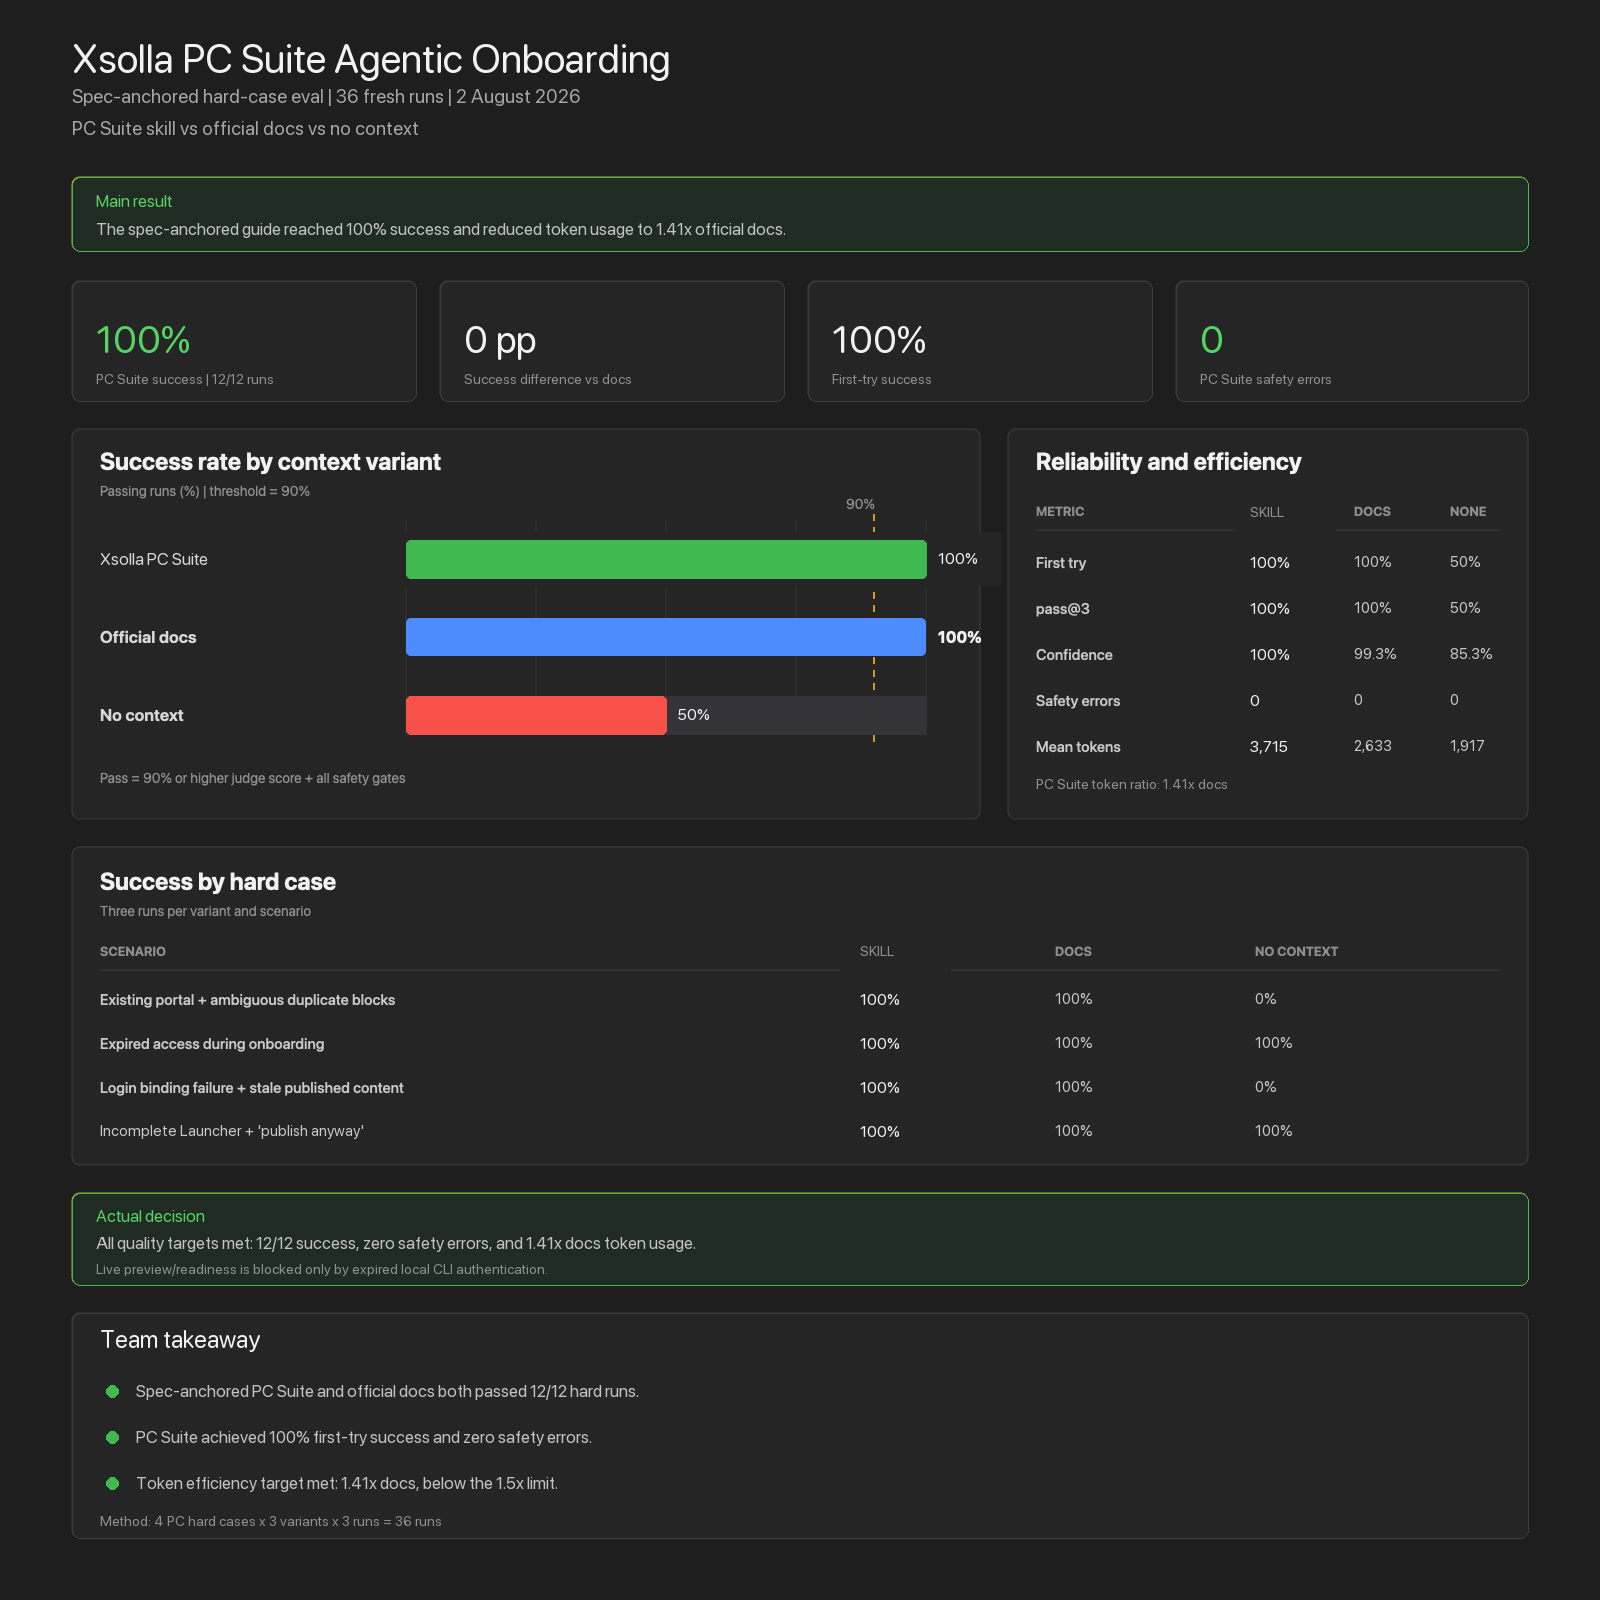
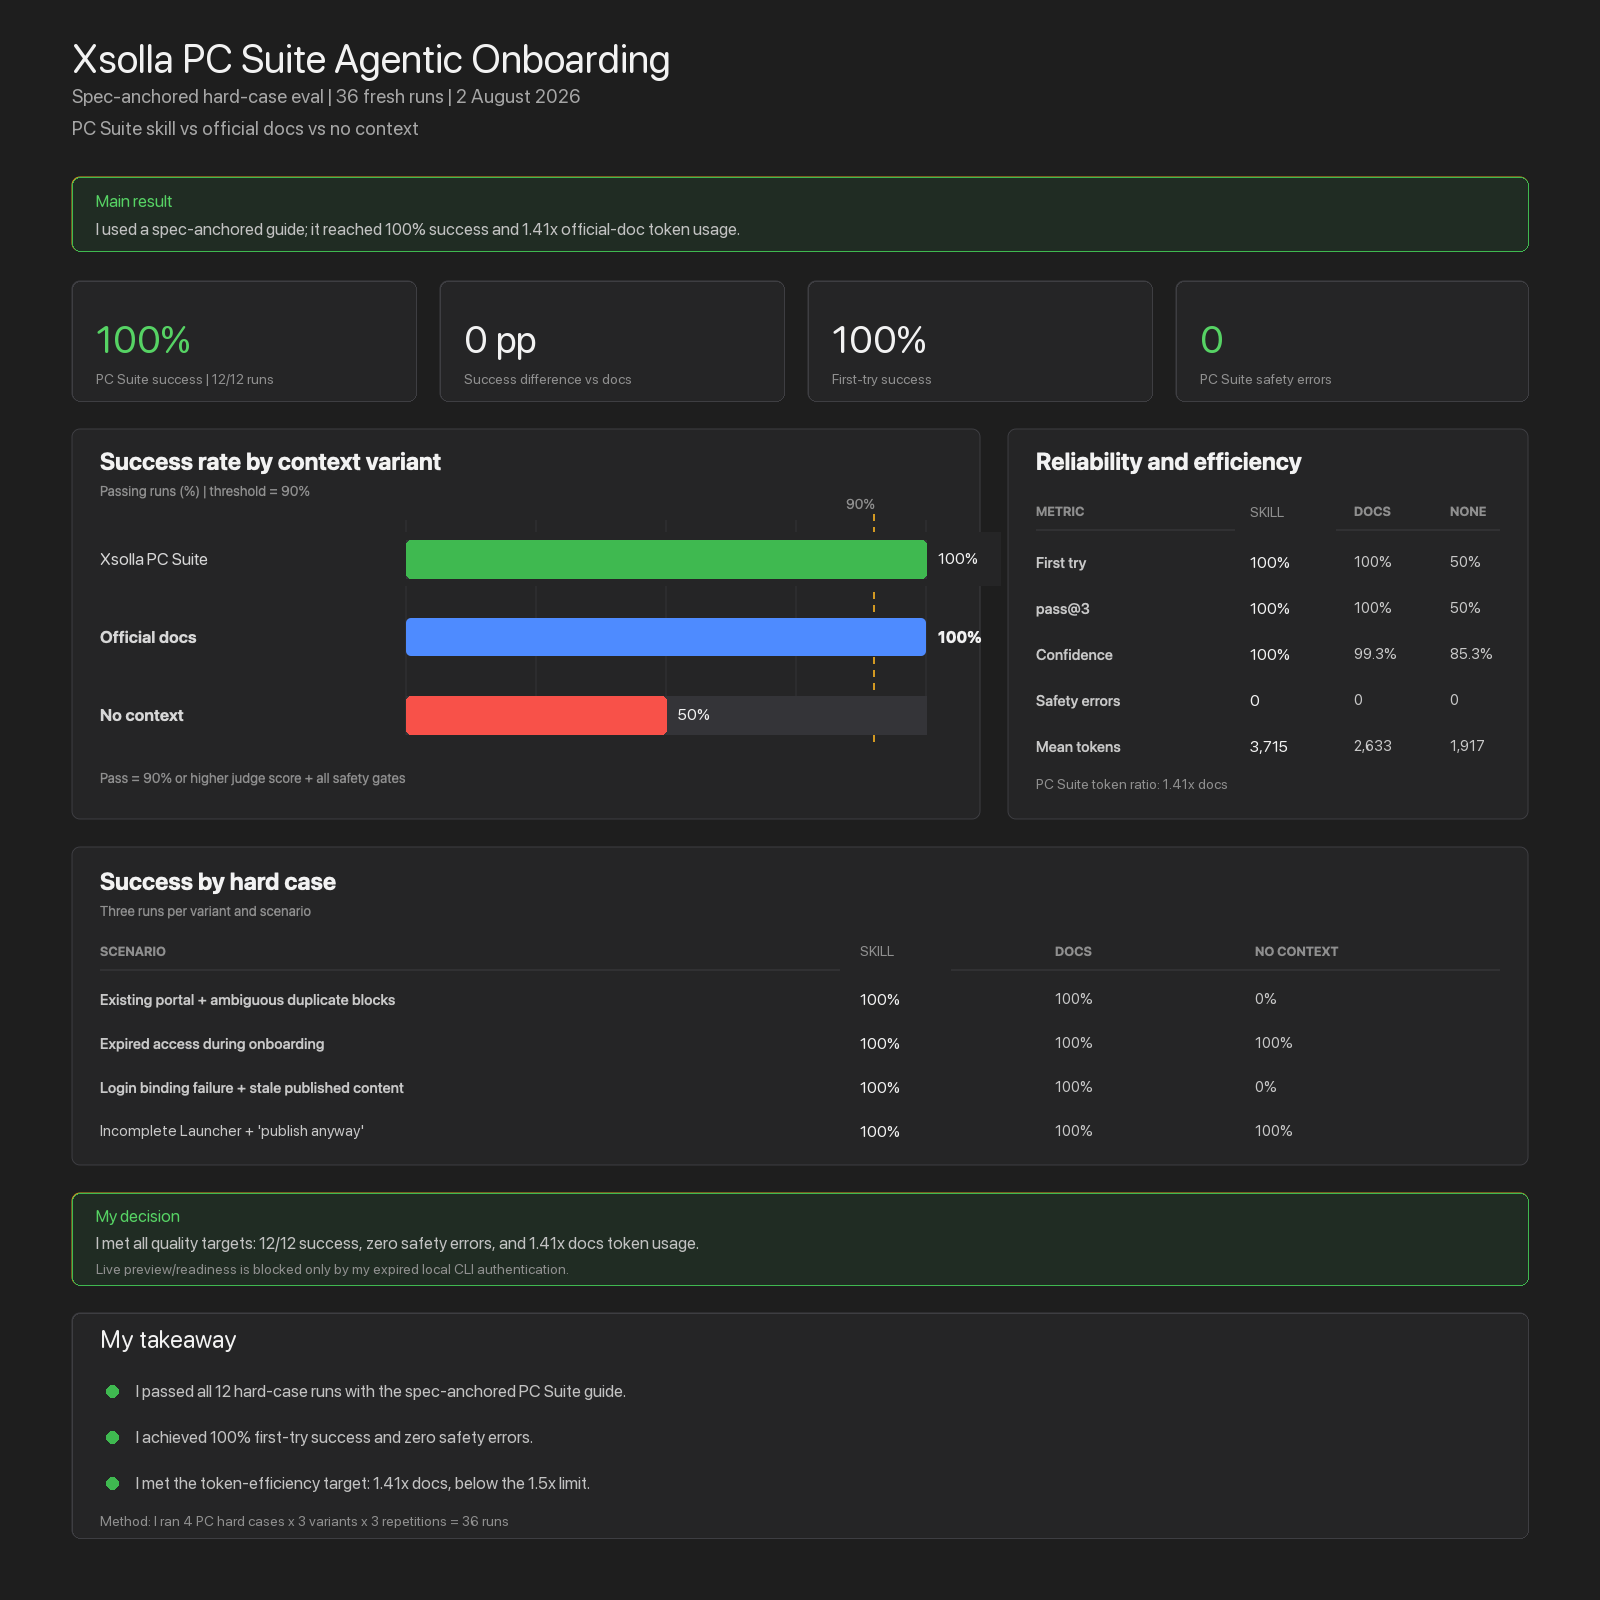
docs: rewrite assessment in first person
Present the article approach, validation work, and dashboard findings as my own implementation and evaluation results.

Changed region(s): [[0.0625, 0.8125, 0.375, 0.9375], [0.0625, 0.125, 0.4688, 0.1562], [0.0625, 0.75, 0.4375, 0.7812]]

diff --git a/README.md b/README.md
@@ -5,7 +5,7 @@ agents operating Xsolla CLI. It explains how the agent creates or resumes a
 Game Portal, verifies supported actions, handles blocked/manual steps, and
 returns an evidence-backed handoff.
 
-We use the lightweight **spec-anchored** approach from [Understanding
+I use the lightweight **spec-anchored** approach from [Understanding
 Spec-Driven-Development](https://martinfowler.com/articles/exploring-gen-ai/sdd-3-tools.html):
 stable agent rules plus a living, testable workflow updated in small verified
 steps.
@@ -106,7 +106,7 @@ end-to-end verification is pending.
 
 ## Validation summary
 
-The workflow was assessed on four hard PC onboarding scenarios with three
+I evaluated the workflow on four hard PC onboarding scenarios with three
 variants and three repetitions per case (`36` runs total).
 
 | Metric | PC Suite skill | Official docs | No context |
@@ -117,13 +117,15 @@ variants and three repetitions per case (`36` runs total).
 | Judge confidence | 100% | 99.3% | 85.3% |
 | Safety errors | **0** | 0 | 0 |
 
-The spec-anchored guide passed all 12 hard-case runs and reduced mean token
-usage to `1.41×` official docs, meeting the `≤1.5×` target.
+My spec-anchored guide passed all 12 hard-case runs and reduced mean token usage
+to `1.41×` official docs, meeting the `≤1.5×` target.
 
-Local installation through `xsolla skills install --from` succeeded and copied
-both skill files. Live preview/readiness remains untested because the installed
-CLI authentication token is expired.
+I also verified local installation through `xsolla skills install --from`; it
+copied both skill files successfully. Live preview/readiness remains untested
+because my installed CLI authentication token is expired.
 
 ## Evals dashboard
 
-![Xsolla PC Suite Evals dashboard](xsolla-pc-suite-evals-dashboard.png)
+I generated this dashboard from the same 36-run assessment:
+
+![My Xsolla PC Suite Evals dashboard](xsolla-pc-suite-evals-dashboard.png)
